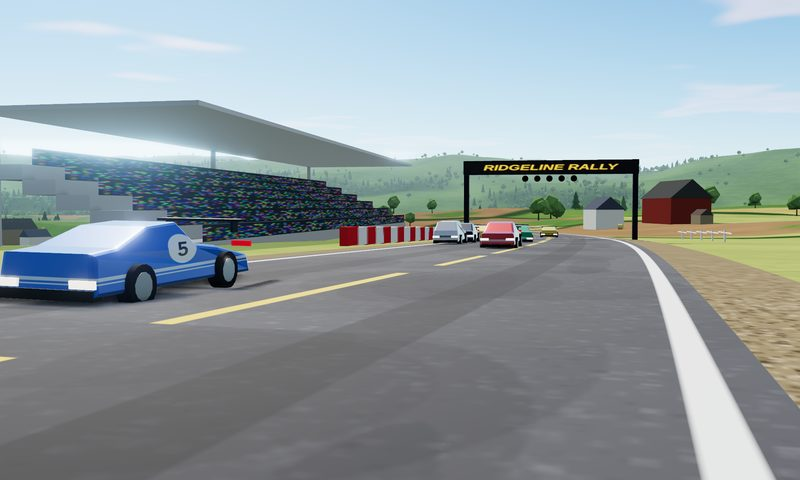
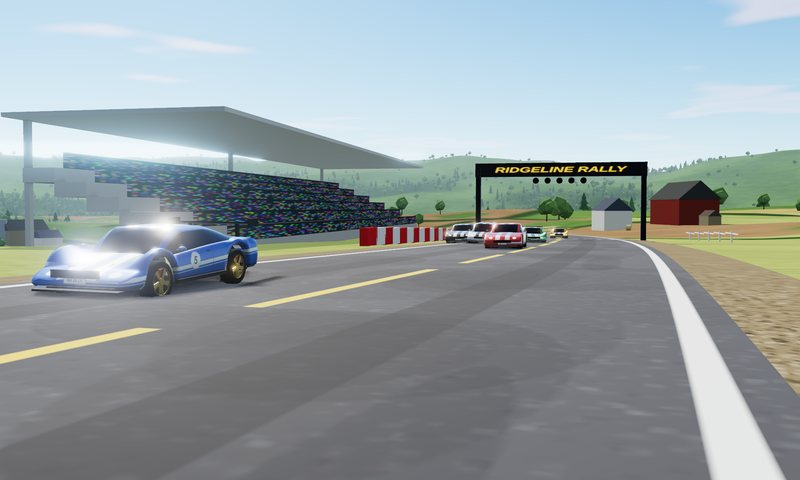
Ridgeline Rally: new car models
Car bodies are now lofted from rounded cross-sections that follow each
model's profile, with cut wheel arches, fender flares, a tumblehome
glasshouse with body-coloured pillars and roof, slim headlamps, tail-light
bars, grille, plates, mirrors, exhausts, splitter, diffuser, skirts and a
spoiler per model. Wheels get lathed tyres, five-spoke rims, discs and
calipers. The livery is projected from the side and from above, so racing
stripes run over the bonnet and roof. Static parts are merged and cached per
model to keep draw calls low. New tile art.

Claude-Session: https://claude.ai/code/session_01FeScsYj5cuyKVv9w2jt4ij

diff --git a/public/games/rally/play.html b/public/games/rally/play.html
@@ -200,6 +200,7 @@ table.res i{display:inline-block;width:10px;height:10px;border-radius:2px;margin
 // Three.js r187, through the import map above so the add-ons share one copy of it
 import * as THREE from 'three';
 import { Sky } from 'three/addons/objects/Sky.js';
+import { mergeGeometries } from 'three/addons/utils/BufferGeometryUtils.js';
 
 // =====================================================================
 //  Utilities
@@ -706,75 +707,181 @@ const CARS = {
   vela: { name: 'Vela GT', blurb: 'Mid-engine GT with downforce. Fastest through the corners.', mass: 1290, power: 265e3, cda: 0.8, mu: 1.24, down: 0.0009, a: 1.3, b: 1.3, maxSteer: 0.52, drive: 'rwd', len: 4.45, wid: 1.95, hgt: 1.18, style: 'gt', stats: [84, 88, 74] },
 };
 const COLORS = ['#d8342a', '#f3c623', '#1f6fd1', '#f2f1ec', '#1d1f23', '#2e9a54', '#ef7a1a', '#7b3fbf'];
+// ---------------------------------------------------------------------
+// Car bodies are lofted: a rounded cross-section is swept nose to tail, its width and height
+// following each model's side profile. The sills rise over the wheels to cut real arches, the
+// wings swell into fenders, and the glasshouse is a second, narrower loft with body-coloured
+// pillars and roof laid over it. t runs from the nose (0) to the tail (1).
+// ---------------------------------------------------------------------
+const BODY = {
+  // top: centre line of the bonnet and deck; cab: windscreen base, roof start, roof end, rear-glass base
+  hatch: { top: [[0, 0.6], [0.07, 0.73], [0.3, 0.86], [0.9, 0.97], [1, 0.9]], cab: [0.29, 0.46, 0.84, 0.965], wb: 0.93, wt: 0.75, nose: 0.07, tail: 0.04, rim: 0xd2d5da, caliper: 0xd8342a, exhaust: [[0.5, 0.29]] },
+  coupe: { top: [[0, 0.64], [0.07, 0.79], [0.4, 0.89], [0.85, 0.93], [1, 0.86]], cab: [0.41, 0.56, 0.71, 0.92], wb: 0.9, wt: 0.72, nose: 0.06, tail: 0.05, rim: 0x2a2c31, caliper: 0xf0b323, exhaust: [[-0.48, 0.3], [0.48, 0.3]] },
+  gt: { top: [[0, 0.48], [0.08, 0.58], [0.28, 0.74], [0.6, 0.86], [0.92, 0.89], [1, 0.82]], cab: [0.28, 0.43, 0.58, 0.87], wb: 0.9, wt: 0.68, nose: 0.08, tail: 0.04, rim: 0xc9a24a, caliper: 0xd8342a, exhaust: [[-0.11, 0.32], [0.11, 0.32]] },
+};
+function crv(keys, t) { // Catmull-Rom through [t, y] keys
+  let i = 0; while (i < keys.length - 2 && t > keys[i + 1][0]) i++;
+  const p0 = keys[Math.max(0, i - 1)][1], p1 = keys[i][1], p2 = keys[i + 1][1], p3 = keys[Math.min(keys.length - 1, i + 2)][1];
+  const u = clamp((t - keys[i][0]) / (keys[i + 1][0] - keys[i][0]), 0, 1);
+  return 0.5 * (2 * p1 + (-p0 + p2) * u + (2 * p0 - 5 * p1 + 4 * p2 - p3) * u * u + (-p0 + 3 * p1 - 3 * p2 + p3) * u * u * u);
+}
+// sweep open cross-sections (left to right over the top) along z; caps close the ends
+function loft(secs, caps) {
+  const M = secs[0].pts.length, pos = [], uv = [], idx = [];
+  secs.forEach((s, j) => s.pts.forEach(([x, y], i) => { pos.push(x, y, s.z); uv.push(i / (M - 1), j / (secs.length - 1)); }));
+  for (let j = 0; j < secs.length - 1; j++) for (let i = 0; i < M - 1; i++) { const a = j * M + i, b = a + 1, c = a + M, d = c + 1; idx.push(a, c, b, b, c, d); }
+  if (caps) for (const [s, front] of [[secs[0], true], [secs[secs.length - 1], false]]) {
+    const base = pos.length / 3; let cx = 0, cy = 0; for (const [x, y] of s.pts) { cx += x; cy += y; } cx /= M; cy /= M;
+    pos.push(cx, cy, s.z); uv.push(0.5, 0.5); for (const [x, y] of s.pts) { pos.push(x, y, s.z); uv.push(0.5, 0.5); }
+    for (let i = 0; i < M; i++) { const p = base + 1 + i, q = base + 1 + (i + 1) % M; if (front) idx.push(base, p, q); else idx.push(base, q, p); }
+  }
+  const g = new THREE.BufferGeometry(); g.setAttribute('position', new THREE.Float32BufferAttribute(pos, 3)); g.setAttribute('uv', new THREE.Float32BufferAttribute(uv, 2)); g.setIndex(idx); g.computeVertexNormals(); return g;
+}
+const mirrorPts = half => [...half, ...half.slice(0, -1).reverse().map(([x, y]) => [-x, y])];
+const box = (w, h, d, x, y, z, rx = 0) => { const b = new THREE.BoxGeometry(w, h, d); if (rx) b.rotateX(rx); return b.translate(x, y, z); };
+const CARGEO = new Map();
+function carGeometry(key) {
+  if (CARGEO.has(key)) return CARGEO.get(key);
+  const s = CARS[key], B = BODY[s.style], L = s.len, W = s.wid, H = s.hgt, [tA, tR1, tR2, tC] = B.cab;
+  const zt = t => -L / 2 + t * L, RA = 0.44, wz = [-s.a, s.b];
+  const arch = (z, r) => { let y = -1; for (const zc of wz) { const d = Math.abs(z - zc); if (d < r) y = Math.max(y, 0.34 + Math.sqrt(r * r - d * d)); } return y; };
+  const endE = t => { const d = Math.min(t / B.nose, (1 - t) / B.tail); return d < 1 ? Math.sqrt(1 - (1 - d) * (1 - d)) : 1; };
+  const top = t => crv(B.top, t) - (1 - endE(t)) * 0.07;
+  const hw = t => W / 2 * (0.8 + 0.2 * endE(t));
+  const sill = t => Math.max(0.27 + (1 - endE(t)) * 0.06, arch(zt(t), RA));
+  const shoulder = t => Math.max(top(t) - 0.015, arch(zt(t), RA + 0.12), sill(t) + 0.1);
+  const stations = n => Array.from({ length: n + 1 }, (_, i) => 0.5 - 0.5 * Math.cos(Math.PI * i / n));
+  // lower body: tucked-under sill, slab side, rounded shoulder, crowned bonnet and deck
+  const lower = loft(stations(84).map(t => {
+    const w = hw(t), yb = sill(t), ys = shoulder(t), yc = top(t);
+    return { z: zt(t), pts: mirrorPts([[-w * 0.9, yb], [-w * 0.975, yb + Math.min(0.06, (ys - yb) * 0.3)], [-w, lerp(yb, ys, 0.45)], [-w * 0.99, lerp(yb, ys, 0.8)], [-w * 0.955, ys - 0.012], [-w * 0.88, ys + 0.004], [-w * 0.62, lerp(ys, yc, 0.75)], [-w * 0.3, yc + 0.012], [0, yc + 0.018]]) };
+  }), true);
+  // glasshouse: base just inside the shoulders, tumbling home toward a crowned roof
+  const roofY = t => H - 0.03 * ((t - (tR1 + tR2) / 2) / ((tR2 - tR1) / 2 + 0.2)) ** 2;
+  const cabY = t => { const b = top(t) - 0.03; let f = t <= tR1 ? (t - tA) / (tR1 - tA) : t <= tR2 ? 1 : (tC - t) / (tC - tR2); f = 1 - (1 - clamp(f, 0, 1)) ** 1.5; return b + (roofY(t) - b) * f; };
+  const glassHalf = t => { const w = hw(t), b = top(t) - 0.03, yt = cabY(t), h = Math.max(0, yt - b), wb = w * B.wb, wt = w * B.wt, cr = Math.min(1, h / 0.12);
+    return { w, b, yt, h, wb, wt, pts: [[-wb, b], [-lerp(wb, wt, 0.55), b + h * 0.55], [-wt, b + h * 0.9], [-wt * 0.9, b + h * 0.985 + 0.006 * cr], [-wt * 0.5, yt + 0.01 * cr], [0, yt + 0.014 * cr]] }; };
+  const span = (a, b, n) => Array.from({ length: n + 1 }, (_, i) => a + (b - a) * i / n);
+  const glass = loft(span(tA, tC, 40).map(t => ({ z: zt(t), pts: mirrorPts(glassHalf(t).pts) })), false);
+  // body-coloured roof panel and the pillars that frame the windows
+  const paint = [lower];
+  paint.push(loft(span(tR1 - 0.025, tR2 + 0.02, 16).map(t => { const q = glassHalf(t); return { z: zt(t), pts: mirrorPts([[-q.wt * 0.94, q.b + q.h * 0.86], [-q.wt * 0.9, q.yt + 0.0], [-q.wt * 0.5, q.yt + 0.024], [0, q.yt + 0.028]]) }; }), false));
+  for (const sx of [-1, 1]) {
+    const pil = span(tA, tC, 40).map(t => { const q = glassHalf(t), o = 0.014; const p = [[-lerp(q.wb, q.wt, 0.82) - o, q.b + q.h * 0.82], [-q.wt - o, q.b + q.h * 0.92], [-q.wt * 0.86 - o * 0.5, q.yt + 0.012]]; return { z: zt(t), pts: (sx < 0 ? p : p.map(([x, y]) => [-x, y]).reverse()) }; });
+    paint.push(loft(pil, false));
+    if (s.style !== 'gt') { // B-pillar
+      const tB = lerp(tR1, tR2, 0.5), d = 0.04 / L;
+      paint.push(loft(span(tB - d, tB + d, 2).map(t => { const q = glassHalf(t), o = 0.012; const p = [[-q.wb - o, q.b], [-lerp(q.wb, q.wt, 0.55) - o, q.b + q.h * 0.55], [-q.wt - o, q.b + q.h * 0.92]]; return { z: zt(t), pts: (sx < 0 ? p : p.map(([x, y]) => [-x, y]).reverse()) }; }), false));
+    }
+    // door mirrors
+    const tm = tA + 0.035, wm = hw(tm) * B.wb;
+    paint.push(new THREE.SphereGeometry(1, 14, 8).scale(0.06, 0.048, 0.095).translate(sx * (wm + 0.12), top(tm) + 0.085, zt(tm) + 0.07), box(0.12, 0.025, 0.04, sx * (wm + 0.05), top(tm) + 0.06, zt(tm) + 0.08));
+  }
+  if (s.style === 'hatch') paint.push(box(hw(tR2) * B.wt * 1.8, 0.04, 0.22, 0, cabY(tR2) + 0.01, zt(tR2) + 0.1, -0.12));
+  // dark trim: underside, wheel wells, splitter, diffuser, side skirts, wings
+  const trim = [box(W * 0.84, 0.04, L * 0.86, 0, 0.25, 0)];
+  // wheel wells: dark half-drums inside each arch, kept under the bonnet line
+  for (const zc of wz) { const tc = (zc + L / 2) / L, hTop = Math.min(RA, top(tc) - 0.06 - 0.34); for (const sx of [-1, 1]) trim.push(new THREE.CylinderGeometry(RA, RA, 0.34, 20, 1, true, -Math.PI / 2, Math.PI).rotateZ(Math.PI / 2).scale(1, hTop / RA, 1).translate(sx * (W / 2 - 0.43), 0.34, zc)); }
+  trim.push(box(W * 0.82, 0.035, 0.2, 0, 0.255, -L / 2 + 0.06), box(W * 0.66, 0.09, 0.18, 0, 0.3, L / 2 - 0.05));
+  const skirtL = s.a + s.b - 2 * RA - 0.06;
+  for (const sx of [-1, 1]) trim.push(box(0.07, 0.07, skirtL, sx * hw(0.5) * 0.96, 0.29, (s.b - s.a) / 2));
+  if (s.style === 'coupe') { const y = top(0.97) + 0.07; trim.push(box(W * 0.84, 0.035, 0.26, 0, y, L / 2 - 0.2, 0.12)); for (const sx of [-1, 1]) trim.push(box(0.04, 0.09, 0.12, sx * W * 0.3, y - 0.05, L / 2 - 0.2)); }
+  if (s.style === 'gt') { const y = H - 0.02; trim.push(box(W * 0.94, 0.03, 0.34, 0, y, L / 2 - 0.22, 0.1)); for (const sx of [-1, 1]) { trim.push(box(0.04, y - top(0.95) + 0.02, 0.1, sx * W * 0.28, (y + top(0.95)) / 2, L / 2 - 0.2), box(0.02, 0.16, 0.42, sx * W * 0.47, y + 0.02, L / 2 - 0.22)); } trim.push(box(0.36, 0.01, 0.22, -0.3, top(0.12) + 0.008, zt(0.12), -0.18), box(0.36, 0.01, 0.22, 0.3, top(0.12) + 0.008, zt(0.12), -0.18)); }
+  // lights: slim headlamps that follow the bonnet, a full-width tail bar and two clusters
+  const th = 0.04, slope = Math.atan((top(th + 0.03) - top(th)) / (0.03 * L));
+  const head = [], tail = [];
+  for (const sx of [-1, 1]) head.push(new THREE.SphereGeometry(1, 20, 10).scale(0.19, 0.045, 0.15).rotateX(-slope).translate(sx * hw(th) * 0.6, top(th) - 0.03, zt(th) + 0.03));
+  const ty = top(0.985) - 0.075;
+  tail.push(box(hw(1) * 1.7, 0.04, 0.03, 0, ty, L / 2 + 0.006)); for (const sx of [-1, 1]) tail.push(box(0.3, 0.085, 0.04, sx * hw(1) * 0.66, ty - 0.005, L / 2 + 0.01));
+  const chrome = B.exhaust.map(([x, y]) => new THREE.CylinderGeometry(0.045, 0.05, 0.16, 12).rotateX(Math.PI / 2).translate(x, y, L / 2 + 0.02));
+  const plates = [new THREE.PlaneGeometry(0.42, 0.11).rotateY(Math.PI).translate(0, sill(0) + 0.1, -L / 2 - 0.012), new THREE.PlaneGeometry(0.42, 0.11).translate(0, sill(1) + 0.17, L / 2 + 0.012)];
+  plates[0].rotateY(0); // front plate faces forward (-z) after the flip above
+  const grille = box(W * 0.46, 0.13, 0.03, 0, sill(0) + 0.2, -L / 2 - 0.004);
+  const out = { paint: mergeGeometries(paint), glass, trim: mergeGeometries(trim), head: mergeGeometries(head), tail: mergeGeometries(tail), chrome: mergeGeometries(chrome), plates: mergeGeometries(plates), grille, lower };
+  CARGEO.set(key, out); return out;
+}
+// wheels: a lathed tyre with rounded shoulders, five-spoke rims, discs and calipers
+const WHEEL = (() => {
+  const prof = [[0.235, -0.125], [0.3, -0.13], [0.33, -0.122], [0.343, -0.095], [0.346, -0.04], [0.346, 0.04], [0.343, 0.095], [0.33, 0.122], [0.3, 0.13], [0.235, 0.125]].map(([r, y]) => new THREE.Vector2(r, y));
+  const tyre = new THREE.LatheGeometry(prof, 30).rotateZ(Math.PI / 2);
+  const tint = (g, c) => { const n = g.attributes.position.count, a = new Float32Array(n * 3).fill(c); g.setAttribute('color', new THREE.BufferAttribute(a, 3)); return g; };
+  const parts = [tint(new THREE.CylinderGeometry(0.236, 0.236, 0.22, 26, 1, true).rotateZ(Math.PI / 2), 0.25), tint(new THREE.CylinderGeometry(0.2, 0.2, 0.01, 26).rotateZ(Math.PI / 2).translate(0.02, 0, 0), 0.18),
+    tint(new THREE.TorusGeometry(0.232, 0.013, 6, 30).rotateY(Math.PI / 2).translate(0.112, 0, 0), 1), tint(new THREE.CylinderGeometry(0.055, 0.07, 0.06, 12).rotateZ(Math.PI / 2).translate(0.1, 0, 0), 1)];
+  for (let k = 0; k < 5; k++) { const sp = new THREE.BoxGeometry(0.035, 0.18, 0.05).translate(0.1, 0.13, 0).rotateX(k * Math.PI * 2 / 5); parts.push(tint(sp, 1)); const sp2 = new THREE.BoxGeometry(0.03, 0.17, 0.035).translate(0.098, 0.13, 0).rotateX(k * Math.PI * 2 / 5 + 0.22); parts.push(tint(sp2, 1)); }
+  return { tyre, rim: mergeGeometries(parts), disc: new THREE.CylinderGeometry(0.19, 0.19, 0.022, 26).rotateZ(Math.PI / 2).translate(-0.01, 0, 0), caliper: new THREE.BoxGeometry(0.06, 0.13, 0.1).translate(0.02, 0.13, 0.07) };
+})();
 function liveryTexture(color, num, style) {
-  const c = document.createElement('canvas'); c.width = 512; c.height = 256; const x = c.getContext('2d');
-  x.fillStyle = color; x.fillRect(0, 0, 512, 256);
-  const dark = ['#f3c623', '#f2f1ec'].includes(color);
-  x.fillStyle = dark ? '#1d1f23' : '#f2f1ec'; x.globalAlpha = 0.85;
-  x.fillRect(0, 150, 512, 10); x.fillRect(0, 166, 512, 4);
-  x.globalAlpha = 1;
-  x.fillStyle = '#f4f2ea'; x.beginPath(); x.arc(256, 98, 46, 0, 6.283); x.fill();
-  x.fillStyle = '#111'; x.font = 'italic 900 64px Arial, sans-serif'; x.textAlign = 'center'; x.fillText(String(num), 256, 121);
-  const t = new THREE.CanvasTexture(c); t.colorSpace = THREE.SRGBColorSpace; t.anisotropy = 4; return t;
+  // one atlas: the top half is painted onto the sides, the bottom half onto bonnet, roof and deck
+  const c = document.createElement('canvas'); c.width = 1024; c.height = 512; const x = c.getContext('2d');
+  const B = BODY[style], k = new THREE.Color(color), lum = k.r * 0.3 + k.g * 0.55 + k.b * 0.15, ink = lum > 0.45 ? '#1b1d21' : '#f4f2ea';
+  x.fillStyle = color; x.fillRect(0, 0, 1024, 512);
+  // sides: darker rocker, a sweeping stripe, door shut lines, handle, fuel cap, roundel, sponsor
+  x.fillStyle = 'rgba(0,0,0,0.32)'; x.fillRect(0, 214, 1024, 42);
+  x.fillStyle = ink; x.beginPath(); x.moveTo(0, 186); x.lineTo(1024, 136); x.lineTo(1024, 152); x.lineTo(0, 202); x.fill();
+  x.globalAlpha = 0.8; x.beginPath(); x.moveTo(0, 209); x.lineTo(1024, 159); x.lineTo(1024, 163); x.lineTo(0, 213); x.fill(); x.globalAlpha = 1;
+  const d0 = (B.cab[0] + 0.02) * 1024, d1 = lerp(B.cab[1], B.cab[2], style === 'gt' ? 0.95 : 0.55) * 1024;
+  x.strokeStyle = 'rgba(0,0,0,0.55)'; x.lineWidth = 2; x.beginPath(); x.moveTo(d0, 96); x.lineTo(d0 - 6, 214); x.moveTo(d1, 96); x.lineTo(d1, 214); x.stroke();
+  x.fillStyle = 'rgba(0,0,0,0.5)'; x.fillRect(d1 - 52, 118, 34, 6);
+  x.beginPath(); x.arc(0.86 * 1024, 116, 9, 0, 6.283); x.stroke();
+  const rx = (d0 + d1) / 2; x.fillStyle = '#f4f2ea'; x.beginPath(); x.arc(rx, 154, 36, 0, 6.283); x.fill(); x.strokeStyle = ink === '#1b1d21' ? '#1b1d21' : '#c9c6bc'; x.lineWidth = 3; x.stroke();
+  x.fillStyle = '#121316'; x.font = 'italic 900 46px Arial, sans-serif'; x.textAlign = 'center'; x.textBaseline = 'middle'; x.fillText(String(num), rx, 156);
+  x.fillStyle = ink; x.font = 'italic 800 22px "Arial Narrow", Arial, sans-serif'; x.fillText('RIDGELINE', 0.8 * 1024, 196);
+  // top: twin racing stripes nose to tail, roof roundel
+  x.fillStyle = ink; x.fillRect(0, 384 - 46, 1024, 30); x.fillRect(0, 384 + 16, 1024, 30);
+  const ru = (B.cab[1] + B.cab[2]) / 2 * 1024; x.fillStyle = '#f4f2ea'; x.beginPath(); x.arc(ru, 384, 40, 0, 6.283); x.fill();
+  x.save(); x.translate(ru, 384); x.rotate(Math.PI / 2); x.fillStyle = '#121316'; x.font = 'italic 900 48px Arial, sans-serif'; x.fillText(String(num), 0, 3); x.restore();
+  const t = new THREE.CanvasTexture(c); t.colorSpace = THREE.SRGBColorSpace; t.anisotropy = 8; return t;
 }
-const glassMat = new THREE.MeshStandardMaterial({ color: 0x0d151d, roughness: 0.05, metalness: 0.4, envMapIntensity: 1.6 });
-const tyreMat = new THREE.MeshStandardMaterial({ color: 0x151517, roughness: 0.92 });
-const rimMat = new THREE.MeshStandardMaterial({ color: 0xc9cbce, roughness: 0.25, metalness: 0.9 });
-const trimMat = new THREE.MeshStandardMaterial({ color: 0x1a1b1d, roughness: 0.55, metalness: 0.3 });
-function profile(style, L, H) {
-  // side silhouette as [z (front -), y] points, front at z = -L/2
-  const h = L / 2;
-  if (style === 'hatch') return [[-h, 0.32], [-h + 0.05, 0.62], [-h + 0.85, 0.82], [-h + 1.55, 0.95], [-0.15, H], [h - 0.6, H - 0.02], [h - 0.08, 0.92], [h, 0.58], [h - 0.02, 0.32]];
-  if (style === 'coupe') return [[-h, 0.34], [-h + 0.06, 0.66], [-h + 1.35, 0.86], [-0.55, 0.92], [0.05, H], [0.9, H - 0.04], [h - 0.55, 0.9], [h - 0.05, 0.84], [h, 0.36]];
-  return [[-h, 0.28], [-h + 0.08, 0.5], [-h + 1.1, 0.72], [-0.45, 0.8], [-0.05, H], [0.75, H - 0.04], [h - 0.6, 0.86], [h - 0.05, 0.82], [h, 0.34]];
+function paintMaterial(tex, s, ghost) {
+  const m = new THREE.MeshPhysicalMaterial({ map: tex, roughness: 0.36, metalness: 0.5, clearcoat: ghost ? 0 : 1, clearcoatRoughness: 0.05, envMapIntensity: 1.15, side: ghost ? THREE.FrontSide : THREE.DoubleSide });
+  // project the livery: side half from the side, top half from above, blended by the normal
+  m.onBeforeCompile = sh => {
+    sh.uniforms.uDim = { value: new THREE.Vector4(-s.len / 2, s.len, s.wid, s.hgt) };
+    sh.vertexShader = 'varying vec3 vObjP;\nvarying vec3 vObjN;\n' + sh.vertexShader.replace('#include <begin_vertex>', '#include <begin_vertex>\n vObjP = position; vObjN = normal;');
+    sh.fragmentShader = 'uniform vec4 uDim;\nvarying vec3 vObjP;\nvarying vec3 vObjN;\n' + sh.fragmentShader.replace('#include <map_fragment>', `
+      float zn = clamp((vObjP.z - uDim.x) / uDim.y, 0.0, 1.0);
+      float hn = clamp((vObjP.y - 0.2) / (uDim.w - 0.15), 0.0, 1.0);
+      vec2 uvS = vec2(vObjP.x < 0.0 ? zn : 1.0 - zn, 0.51 + 0.48 * hn);
+      vec2 uvT = vec2(zn, 0.01 + 0.48 * clamp(vObjP.x / uDim.z + 0.5, 0.0, 1.0));
+      float wTop = smoothstep(0.55, 0.85, abs(normalize(vObjN).y));
+      diffuseColor *= mix(texture2D(map, uvS), texture2D(map, uvT), wTop);`);
+  };
+  m.customProgramCacheKey = () => 'rally-livery';
+  if (ghost) { m.transparent = true; m.opacity = 0.35; m.depthWrite = false; }
+  return m;
 }
+function plateMaterial(num) {
+  const c = document.createElement('canvas'); c.width = 256; c.height = 64; const x = c.getContext('2d');
+  x.fillStyle = '#f2efe4'; x.fillRect(0, 0, 256, 64); x.strokeStyle = '#222'; x.lineWidth = 4; x.strokeRect(3, 3, 250, 58);
+  x.fillStyle = '#16171a'; x.font = '700 40px "Arial Narrow", Arial, sans-serif'; x.textAlign = 'center'; x.textBaseline = 'middle'; x.fillText(`RR ${String(num).padStart(2, '0')} LY`, 128, 34);
+  const t = new THREE.CanvasTexture(c); t.colorSpace = THREE.SRGBColorSpace; return new THREE.MeshStandardMaterial({ map: t, roughness: 0.5 });
+}
+const glassMat = new THREE.MeshPhysicalMaterial({ color: 0x0a1016, roughness: 0.03, metalness: 0.15, clearcoat: 1, clearcoatRoughness: 0.02, envMapIntensity: 1.7 });
+const tyreMat = new THREE.MeshStandardMaterial({ color: 0x18181a, roughness: 0.88 });
+const trimMat = new THREE.MeshStandardMaterial({ color: 0x141518, roughness: 0.62, metalness: 0.15, side: THREE.DoubleSide });
+const chromeMat = new THREE.MeshStandardMaterial({ color: 0xd8dade, roughness: 0.12, metalness: 1 });
+const headMat = new THREE.MeshStandardMaterial({ color: 0xf4f7ff, emissive: 0xe8f0ff, emissiveIntensity: 0.85, roughness: 0.1 });
+const discMat = new THREE.MeshStandardMaterial({ color: 0x6b6d70, roughness: 0.45, metalness: 0.8 });
+const grilleMat = (() => { const c = document.createElement('canvas'); c.width = 64; c.height = 32; const x = c.getContext('2d'); x.fillStyle = '#0c0d0f'; x.fillRect(0, 0, 64, 32); x.fillStyle = '#2a2c30'; for (let j = 0; j < 4; j++) for (let i = 0; i < 9; i++) { x.beginPath(); x.arc(i * 8 + (j % 2) * 4, j * 8 + 4, 2.6, 0, 6.283); x.fill(); } const t = new THREE.CanvasTexture(c); t.colorSpace = THREE.SRGBColorSpace; return new THREE.MeshStandardMaterial({ map: t, roughness: 0.6, metalness: 0.3 }); })();
+const RIMMATS = {}, CALMATS = {};
 function makeCarModel(key, colorIdx, num, ghost) {
-  const s = CARS[key], g = new THREE.Group(); const parts = { wheels: [], steer: [] };
-  const col = COLORS[colorIdx % COLORS.length];
-  const body = new THREE.MeshPhysicalMaterial({ map: liveryTexture(col, num, s.style), roughness: 0.4, metalness: 0.45, clearcoat: ghost ? 0 : 1, clearcoatRoughness: 0.06, envMapIntensity: 1.1 }); // lacquered paint
-  if (ghost) { for (const m of [body]) { m.transparent = true; m.opacity = 0.35; m.depthWrite = false; } }
-  const sh = new THREE.Shape(); const pr = profile(s.style, s.len, s.hgt);
-  sh.moveTo(pr[0][0], pr[0][1]); for (let i = 1; i < pr.length; i++) sh.lineTo(pr[i][0], pr[i][1]); sh.lineTo(pr[0][0], pr[0][1]);
-  const bw = s.wid - 0.42; // body between the wheels; the tyres stand proud of it
-  const geo = new THREE.ExtrudeGeometry(sh, { depth: bw, bevelEnabled: true, bevelThickness: 0.1, bevelSize: 0.08, bevelSegments: 3, curveSegments: 6 });
-  geo.translate(0, 0, -bw / 2); geo.rotateY(Math.PI / 2); // shape x (length) → z, extrusion → x
-  // pull the upper body in so the cabin tapers like a real car instead of a box
-  const taper = (g2, y0, y1, k) => { const q = g2.attributes.position; for (let i = 0; i < q.count; i++) q.setX(i, q.getX(i) * (1 - k * smooth(y0, y1, q.getY(i)))); };
-  taper(geo, 0.62, s.hgt + 0.1, 0.24);
-  geo.computeBoundingBox(); const bb = geo.boundingBox;
-  const uv = geo.attributes.uv, pa = geo.attributes.position;
-  for (let i = 0; i < pa.count; i++) uv.setXY(i, (pa.getZ(i) - bb.min.z) / (bb.max.z - bb.min.z), pa.getY(i) / (s.hgt + 0.15));
-  geo.computeVertexNormals();
-  const bodyMesh = new THREE.Mesh(geo, body); bodyMesh.castShadow = !ghost; g.add(bodyMesh); parts.body = bodyMesh;
-  // glasshouse: a narrower copy of the upper silhouette
-  const top = pr.filter(p => p[1] > 0.78);
-  if (top.length >= 2 && !ghost) {
-    const gs = new THREE.Shape(); const y0 = 0.86;
-    gs.moveTo(top[0][0] + 0.25, y0); for (const [zz, yy] of top) gs.lineTo(zz, yy - 0.05); gs.lineTo(top[top.length - 1][0] - 0.2, y0); gs.lineTo(top[0][0] + 0.25, y0);
-    const gg = new THREE.ExtrudeGeometry(gs, { depth: bw - 0.1, bevelEnabled: false }); gg.translate(0, 0, -(bw - 0.1) / 2); gg.rotateY(Math.PI / 2);
-    taper(gg, 0.62, s.hgt + 0.1, 0.24); const gm = new THREE.Mesh(gg, glassMat); gm.scale.set(1.03, 1, 0.98); g.add(gm);
+  const s = CARS[key], B = BODY[s.style], G = carGeometry(key), g = new THREE.Group(); const parts = { wheels: [], steer: [] };
+  const body = paintMaterial(liveryTexture(COLORS[colorIdx % COLORS.length], num, s.style), s, ghost);
+  const add = (geo, mat, shadow = true) => { const m = new THREE.Mesh(geo, mat); m.castShadow = shadow && !ghost; m.receiveShadow = !ghost; g.add(m); return m; };
+  if (ghost) { add(G.lower, body); add(G.glass, body); }
+  else {
+    parts.body = add(G.paint, body); add(G.glass, glassMat); add(G.trim, trimMat); add(G.chrome, chromeMat, false); add(G.head, headMat, false); add(G.grille, grilleMat, false); add(G.plates, plateMaterial(num), false);
+    const tail = new THREE.MeshStandardMaterial({ color: 0x3a0303, emissive: 0xff1a10, emissiveIntensity: 0.6, roughness: 0.2 }); parts.tail = tail; add(G.tail, tail, false);
   }
-  // lights
-  const head = new THREE.MeshStandardMaterial({ color: 0xffffff, emissive: 0xfff2d0, emissiveIntensity: 1.2 });
-  const tail = new THREE.MeshStandardMaterial({ color: 0x400000, emissive: 0xff1a10, emissiveIntensity: 0.6 }); parts.tail = tail;
-  if (!ghost) for (const sx of [-1, 1]) {
-    addBox(0.42, 0.12, 0.06, head, sx * (s.wid / 2 - 0.32), pr[1][1] - 0.04, -s.len / 2 - 0.08, 0, g);
-    addBox(0.4, 0.1, 0.06, tail, sx * (s.wid / 2 - 0.3), pr[pr.length - 2][1] - 0.06, s.len / 2 + 0.08, 0, g);
-  }
-  if (!ghost) {
-    addBox(s.wid - 0.3, 0.16, 0.22, trimMat, 0, 0.3, -s.len / 2 + 0.02, 0, g); // front splitter
-    addBox(s.wid - 0.32, 0.18, 0.2, trimMat, 0, 0.32, s.len / 2 - 0.04, 0, g);
-    if (s.style !== 'hatch') { const wing = addBox(s.wid * 0.9, 0.05, 0.36, trimMat, 0, s.style === 'gt' ? 1.22 : 1.02, s.len / 2 - 0.25, 0, g); for (const sx of [-1, 1]) addBox(0.05, 0.22, 0.2, trimMat, sx * s.wid * 0.36, wing.position.y - 0.12, s.len / 2 - 0.25, 0, g); }
-    else addBox(bw * 0.62, 0.05, 0.3, trimMat, 0, s.hgt - 0.01, s.len / 2 - 0.58, 0, g);
-  }
-  // wheels
-  const tg = new THREE.CylinderGeometry(0.34, 0.34, 0.26, 18).rotateZ(Math.PI / 2), rg = new THREE.CylinderGeometry(0.22, 0.22, 0.27, 12).rotateZ(Math.PI / 2);
+  const rimMat = RIMMATS[s.style] || (RIMMATS[s.style] = new THREE.MeshStandardMaterial({ color: B.rim, roughness: 0.22, metalness: 0.95, vertexColors: true }));
+  const calMat = CALMATS[s.style] || (CALMATS[s.style] = new THREE.MeshStandardMaterial({ color: B.caliper, roughness: 0.4, metalness: 0.2 }));
   for (const [sx, front] of [[-1, true], [1, true], [-1, false], [1, false]]) {
     const piv = new THREE.Group(); piv.position.set(sx * (s.wid / 2 - 0.15), 0.34, front ? -s.a : s.b);
-    const w = new THREE.Group(); const t = new THREE.Mesh(tg, ghost ? body : tyreMat); t.castShadow = !ghost; w.add(t); if (!ghost) w.add(new THREE.Mesh(rg, rimMat));
+    const w = new THREE.Group(), side = new THREE.Group(); side.scale.x = sx; w.add(side);
+    const t = new THREE.Mesh(WHEEL.tyre, ghost ? body : tyreMat); t.castShadow = !ghost; side.add(t);
+    if (!ghost) { side.add(new THREE.Mesh(WHEEL.rim, rimMat), new THREE.Mesh(WHEEL.disc, discMat)); const cal = new THREE.Mesh(WHEEL.caliper, calMat); cal.scale.x = sx; piv.add(cal); }
     piv.add(w); g.add(piv); parts.wheels.push(w); if (front) parts.steer.push(piv);
   }
-  if (!ghost) g.traverse(o => { if (o.isMesh) o.castShadow = true; });
   // a soft contact shadow so cars sit on the road even where real shadows are off
   if (!ghost) { const sh2 = new THREE.Mesh(new THREE.PlaneGeometry(s.wid + 0.9, s.len + 1.0).rotateX(-Math.PI / 2), blobMat()); sh2.position.y = 0.09; sh2.renderOrder = 1; g.add(sh2); }
   return { group: g, parts };

diff --git a/docs/RALLY.md b/docs/RALLY.md
@@ -43,7 +43,8 @@ They follow a racing line that cuts to the inside of each corner. They steer by 
 - **Sky:** the r187 physical `Sky`, with Rayleigh and Mie scattering and its built-in drifting cloud layer. Each circuit sets the sun angle, haze and cloud cover.
 - **Auto-exposure:** at load, the game renders the sky a pixel at a time all the way round the horizon. It sets the sky's brightness from the log-average, like a camera's meter, so a sunset glow doesn't black out the rest. The fog takes the horizon colour, so the hills fade into the actual sky behind them, and the lake reflects it too.
 - **Reflections:** cars and road reflect a pre-filtered environment map made from that same sky, clouds included.
-- **Car paint:** `MeshPhysicalMaterial` with a clear coat, plus a soft contact shadow under every car.
+- **Car models:** bodies are lofted. A rounded cross-section is swept from nose to tail, following each model's side profile, with sills that rise to cut real wheel arches and wings that swell into fenders. The glasshouse is a second, narrower loft that tumbles in toward the roof, framed by body-coloured A-, B- and C-pillars and a roof panel. Details: slim headlamps that follow the bonnet, a full-width tail-light bar that brightens when braking, a grille, number plates, mirrors, exhausts, a splitter, a diffuser and side skirts. The hatch has a roof spoiler, the V8 a ducktail and the GT a wing and bonnet vents. Wheels have lathed tyres with rounded shoulders, five-spoke rims (silver, black or gold by model), brake discs and calipers.
+- **Car paint:** `MeshPhysicalMaterial` with a clear coat. The livery is projected from the side onto the flanks (stripe, door lines, roundel) and from above onto the bonnet, roof and deck (twin racing stripes, roof number). A soft contact shadow sits under every car.
 - **High setting:** adds sun shadows (r187's `PCFShadowMap`), ground-truth ambient occlusion (`GTAOPass`) for soft shading under cars and buildings and among the trees, a light bloom on the sun, lights and glints, 4× multisampling, a finer terrain and more trees.
 
 Phones default to Medium. Terrain and tree detail change the next time a circuit loads.
